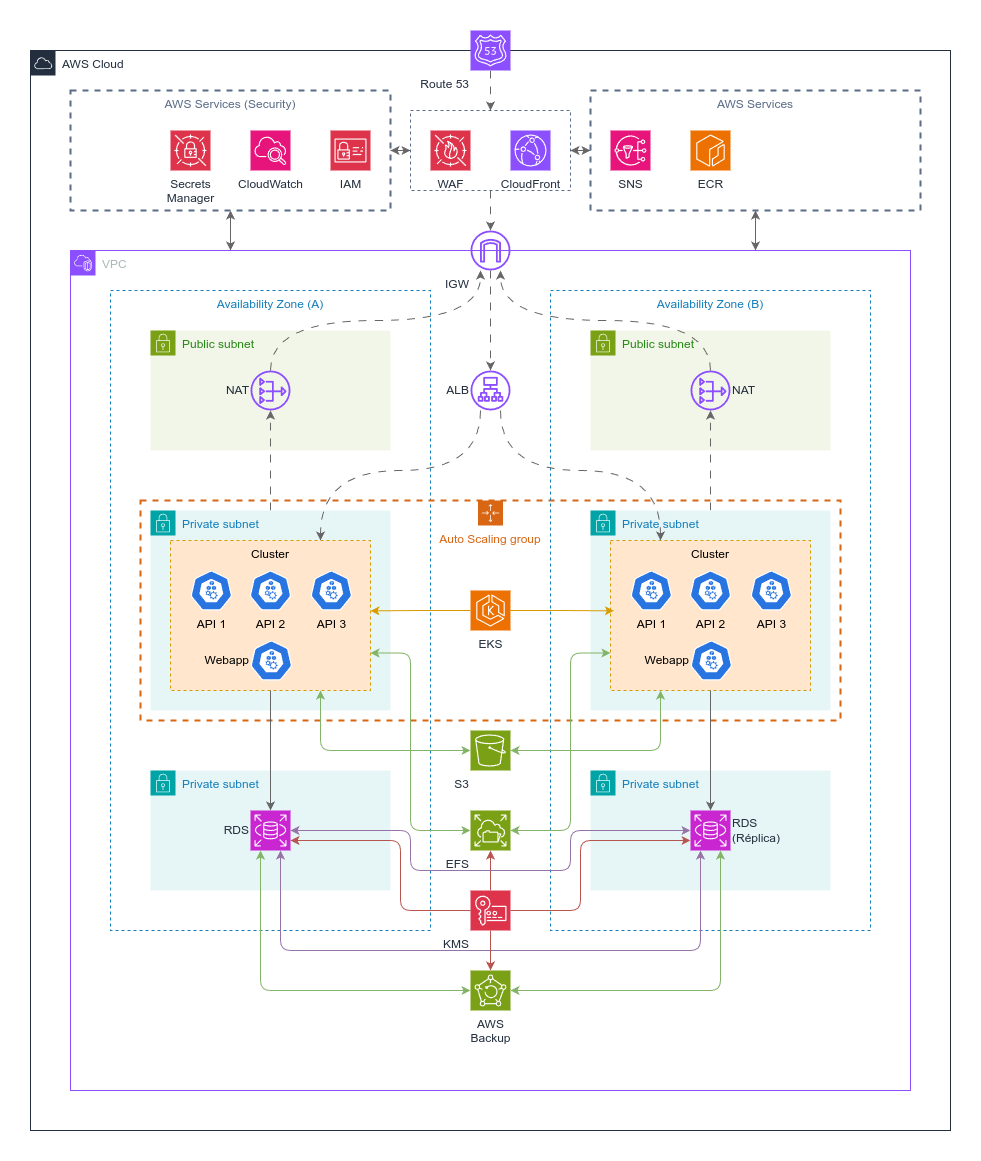
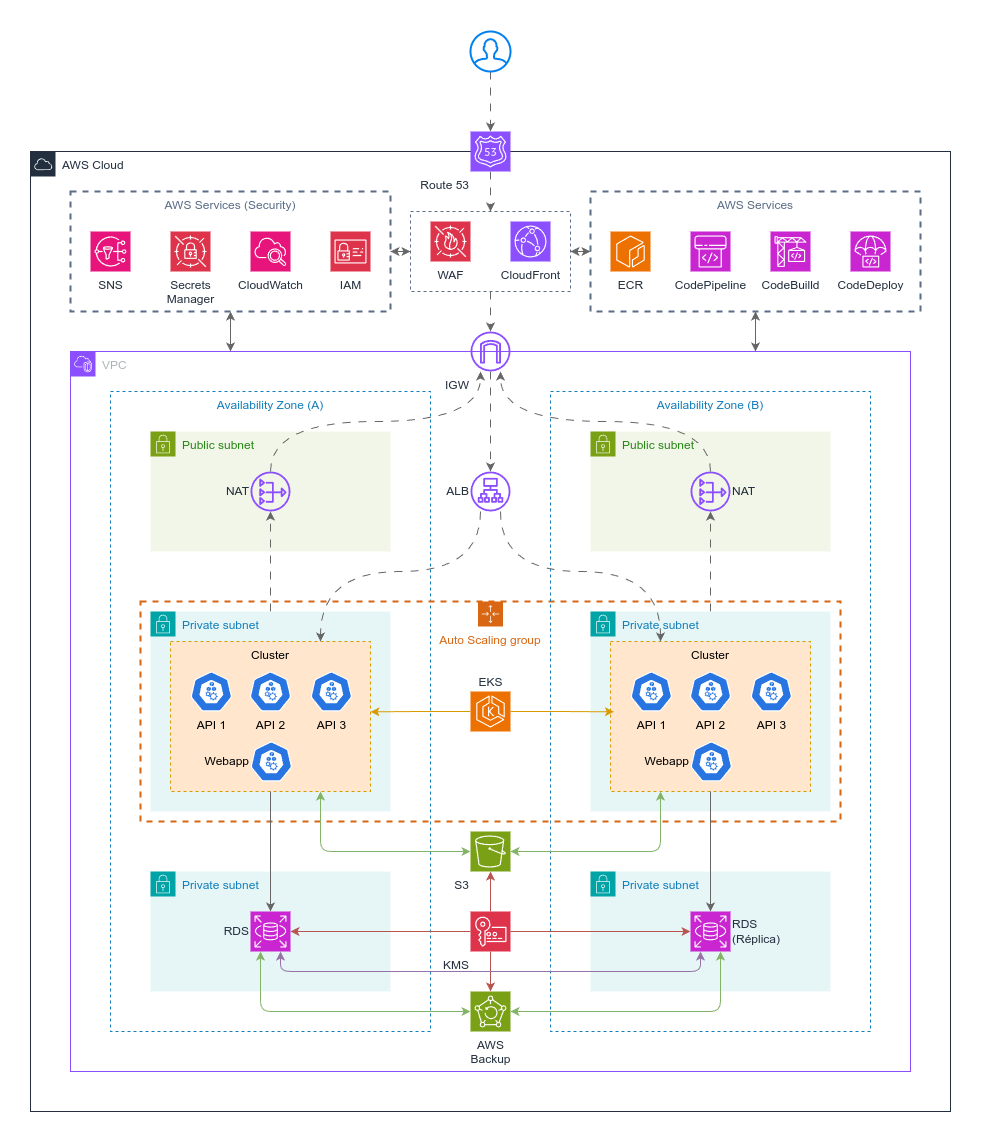
refactor: ultimas mudanças

diff --git a/README.md b/README.md
@@ -5,6 +5,7 @@
 </h1>
 
 👥 Integrantes do Grupo:
+
 - Lucas Pinheiro Josino da Silva
 - Fabiano Vandré Campelo de Medeiros
 
@@ -74,7 +75,7 @@ Definição das instâncias que serão utilizas na AWS:
 
 - **Frontend**: Instâncias EC2 (tipo **t4g.small** / vCPU: 2, Memória: 2 GB).
 - **Backend**: Instâncias EC2 (tipo **t4g.medium** / vCPU: 2, Memória: 4 GB).
-- **Banco de Dados**: Amazon RDS MySQL (tipo **db.m5.xlarge** / vCPU: 2, Memória: 16 GB).
+- **Banco de Dados**: Amazon RDS MySQL (tipo **db.t4g.xlarge** / vCPU: 2, Memória: 16 GB).
 
 > De início, os arquivos estáticos vão ser salvos no EBS
 
@@ -155,31 +156,34 @@ Análise e comparação dos serviços utilizando na empresa com as oferencidas p
 
 ## Modernização
 
-A modernização será realizada em três fases:
+A modernização será realizada em quatro fases:
 
 1. Containerização das Aplicações
 
-   - Containerizar **APIs** e **Frontend** utilizando **Docker**.
+   - Containerizar as **API's** e **Frontend** utilizando **Containers**.
    - Criar **Dockerfile** para cada serviço e definir as dependências.
+   - Armazenar e versionar as imagens de containers no **ECR** para facilitar o deploy no **EKS**.
 
-2. Orquestração e Deploy no Amazon EKS
+2. Armazenamento e Persistência
 
-   - Criar um Cluster Amazon **EKS** para gerenciar os containers.
-   - Definir manifests **Kubernetes** _(Deployments, Services, ConfigMaps, Secrets, Ingress)_.
-   - Configurar um **Application Load Balancer (ALB)** para gerenciar o tráfego HTTP/HTTPS.
+   - Utilizar arquivos estáticos no **S3** com **CloudFront** para distribuição rápida.
+   - Utilizar **RDS MySQL** _(Multi-AZ)_ com réplica para garantir tolerância a falhas.
+   - Configurar **AWS Backup** para proteger os dados armazenados no **RDS** com políticas de backup automatizadas.
+
+3. Segurança e Compliance
+
+   - Controle de acesso com **IAM** e **Security Groups**.
+   - Segurança na rede com **AWS WAF** e regras de **VPC** _(Subnet e Route Table)_.
+   - Criptografia de dados com **KMS**.
+   - Monitoramento de segurança com **CloudWatch**.
+   - Configurar **SNS** para alertas em caso de falhas, segurança ou uso incorreto dos recursos.
+
+4. Orquestração e Deploy no Amazon EKS
+
+   - Criar clusters com **EKS** para gerenciar os containers.
+   - Definir as configurações do **Kubernetes** _(Deployments, Services e ConfigMaps)_.
+   - Configurar um **Application Load Balancer (ALB)** para gerenciar o tráfego.
    - Habilitar **Auto Scaling** para escalar automaticamente os pods conforme a demanda.
-
-3. Armazenamento e Persistência
-
-   - Migrar arquivos estáticos para o **S3** com **CloudFront** para distribuição rápida.
-   - Utilizar **RDS MySQL** (Multi-AZ) para garantir tolerância a falhas.
-   - Implementar **EFS** caso seja necessário um sistema de arquivos compartilhado entre os pods.
-
-### Segurança e Compliance
-
-- Controle de acesso com **IAM** e **Security Groups**.
-- Segurança na rede com **AWS WAF** e regras de **VPC**.
-- Criptografia de dados com **S3**, **RDS** e **Secrets Manager**.
 
 #### Diagrama de Modernização:
 
